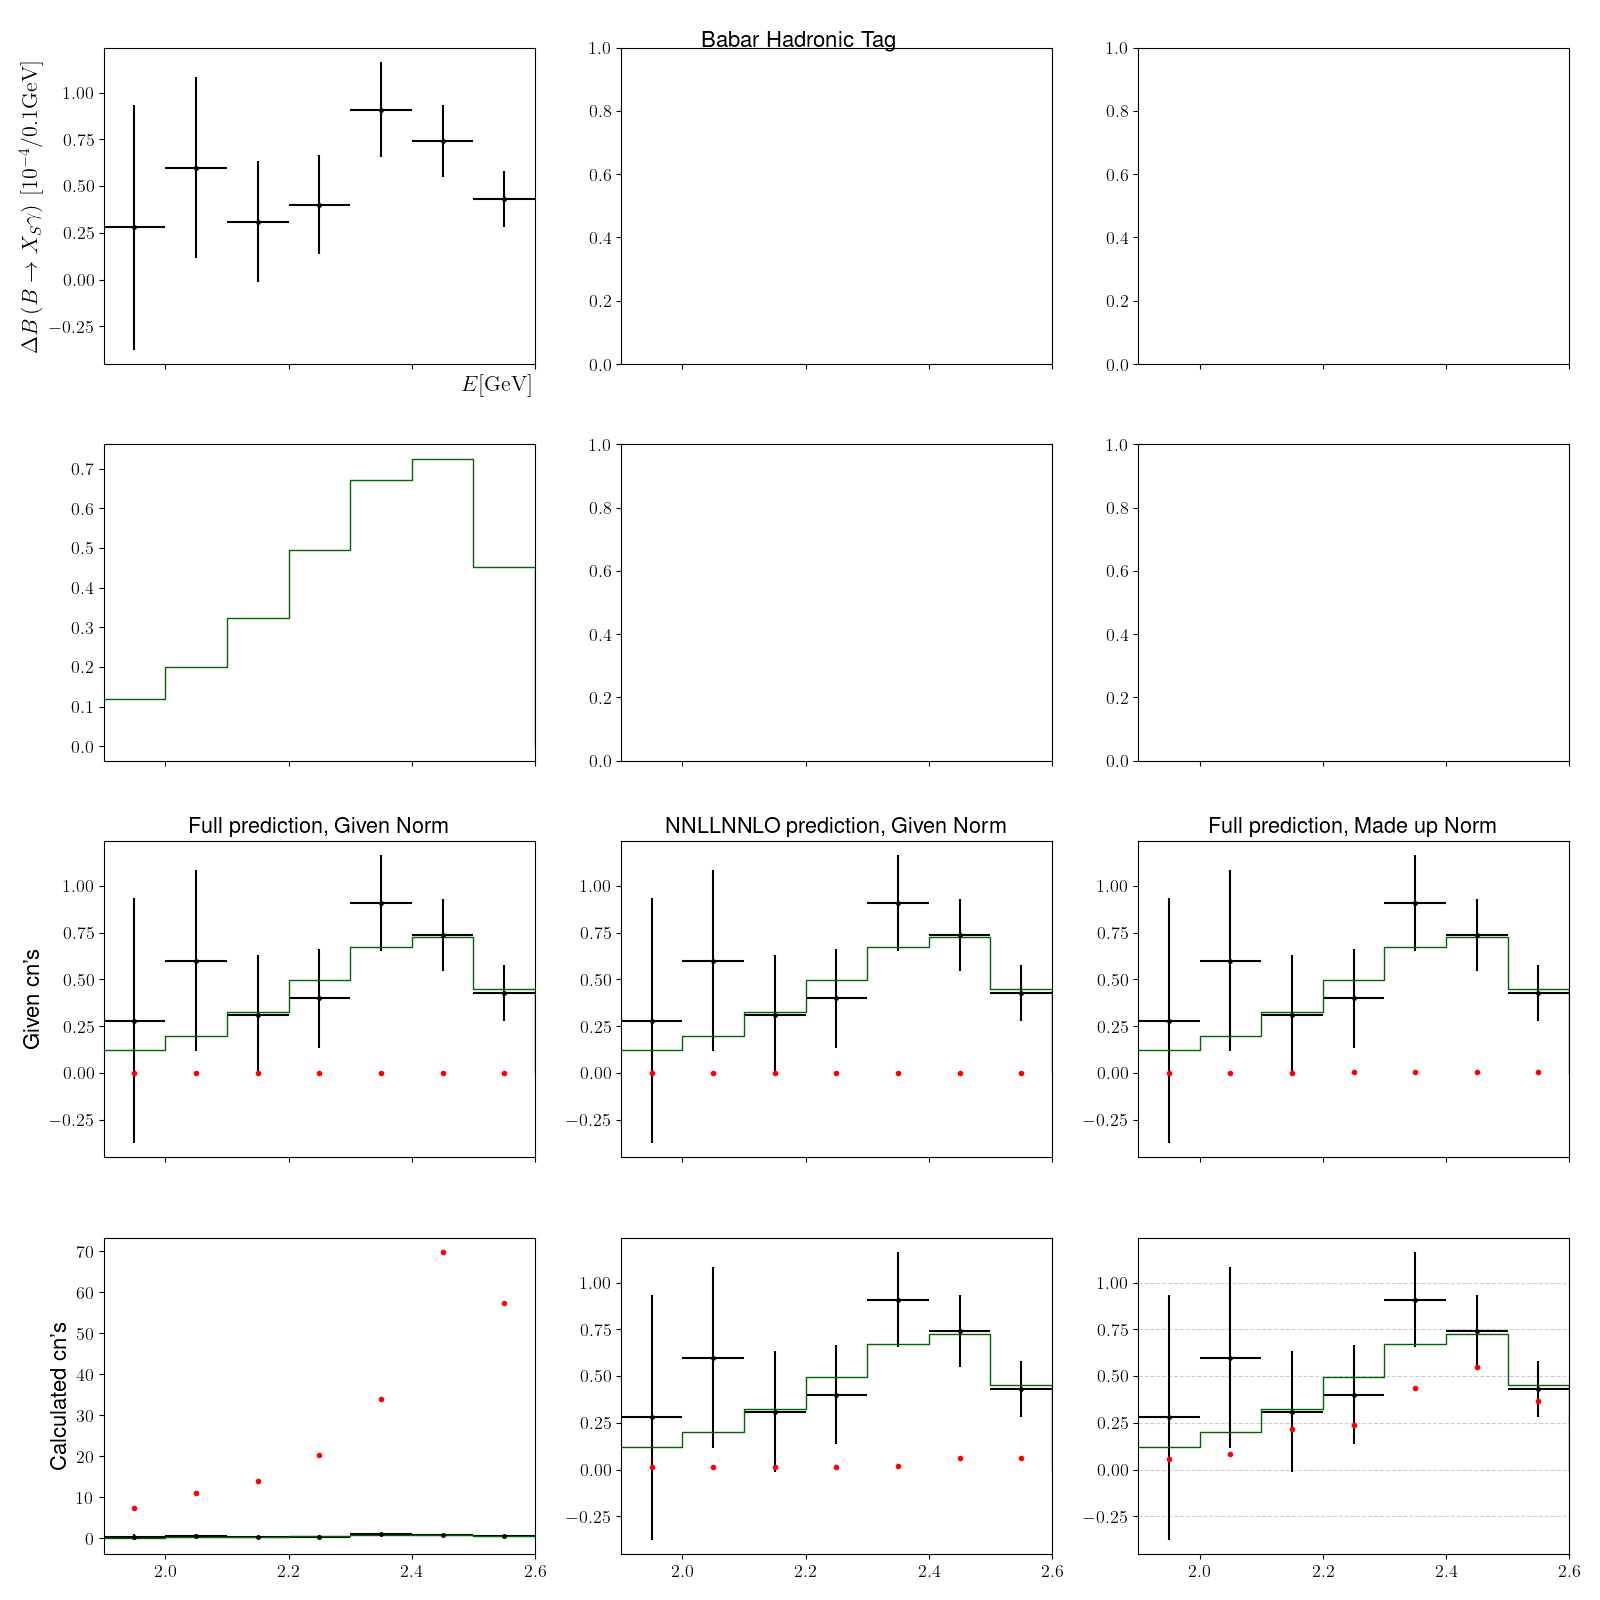
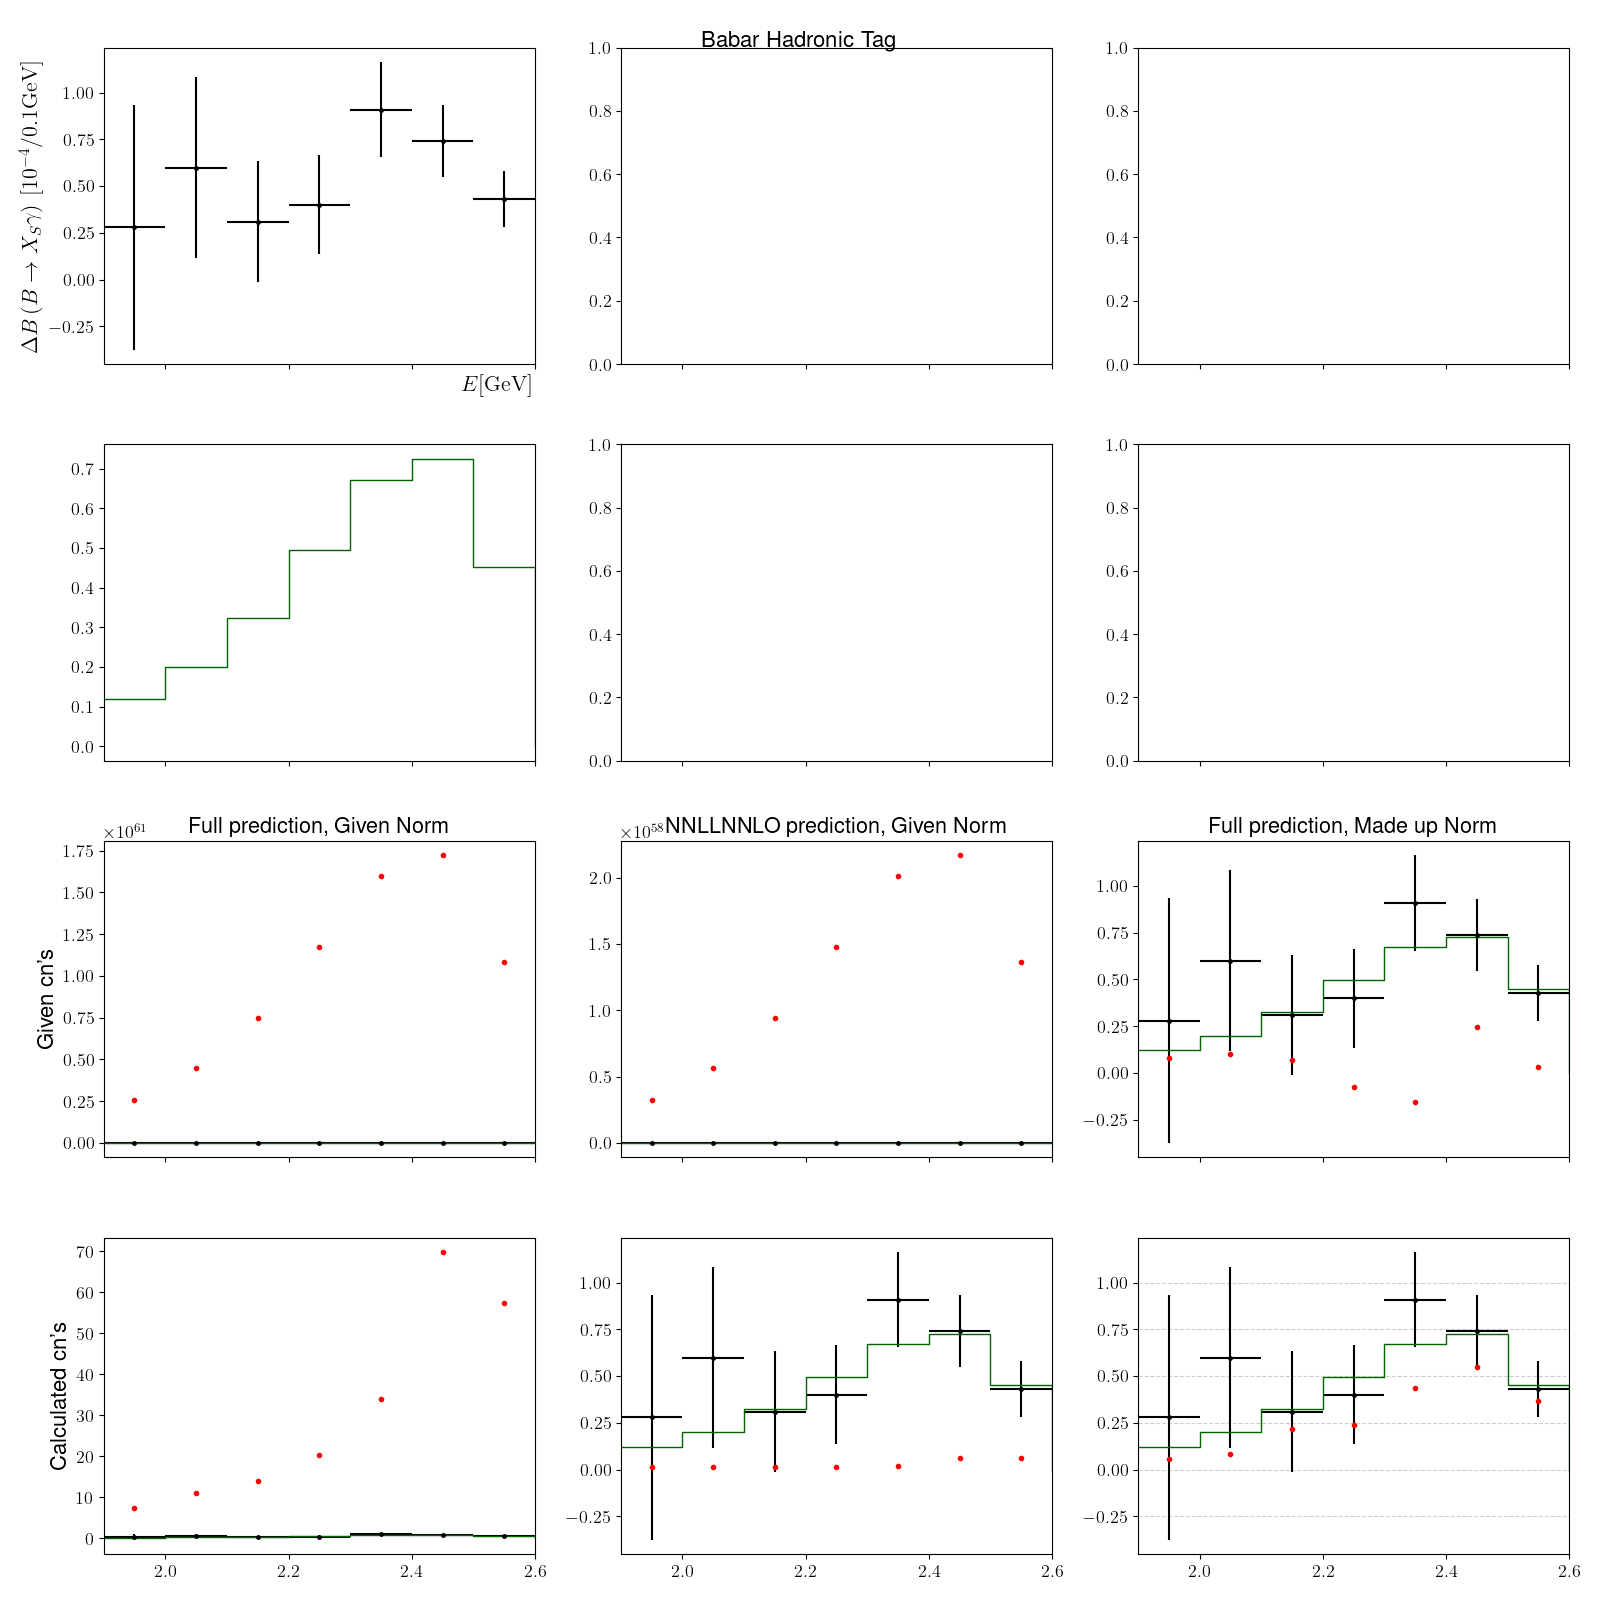
an s too large again

diff --git a/Grab.py b/Grab.py
@@ -1,4 +1,4 @@
-#from ROOT import *
+from ROOT import TFile
 import uproot
 import numpy as np
 import pickle
@@ -18,8 +18,7 @@ class Grab:
         self.mids = ['NNLLNNLO', 'NS22NNLO', 'NS27NNLO', 'NS28NNLO', 'NS78NNLO', 'NS88NNLO']
 
 
-    '''
-    #TODO: Compile again because of the label names
+
     def GrabMeasurement(Tag, Label):
 
         # Our Measurement Dictionary
@@ -34,7 +33,7 @@ class Grab:
         }
 
         # Open File and grab measurement histogram
-        f = TFile("/home/s08shoff/physik/shk_bernlochner/simba/Cpp/share/simba/measurements/" + Tag + ".root")
+        f = TFile("../simba/Cpp/share/simba/measurements/" + Tag + ".root")
         h = f.Get(Tag)
         # Determine the number of bins
         nbins = h.GetNbinsX()
@@ -70,7 +69,7 @@ class Grab:
 
         return measDict
 
-    '''
+
 
     #key: Which experiment. possibilities: ["babar_incl", "babar_hadtag", "babar_sem", "belle"]
     #mid: Which Order. possibilities: see self.mids
@@ -230,7 +229,7 @@ class Grab:
 
 
 g = Grab()
-'''
+
 Fmn_moments = Grab.GrabMoments()
 #print(Fmn_moments['expx4']['Values'][3]) #FIXME: zu wenig Nachkommastellen
 Tools.store_in_pickle(Fmn_moments, 'theory/Fmn_moments')
@@ -243,17 +242,17 @@ data_label_list = ["Babar\\Inclusive\\Spectra", "Babar\\Hadronic\\Tag", "Babar\\
 data_tag_list = ["babar_incl", "babar_hadtag", "babar_sem", "belle"]
 
 exp_data = {
-            "babar_incl": g.GrabMeasurement(data_tag_list[0],data_label_list[0]),
-            "babar_hadtag": g.GrabMeasurement(data_tag_list[1],data_label_list[1]),
-            "babar_sem": g.GrabMeasurement(data_tag_list[2],data_label_list[2]),
-            "belle": g.GrabMeasurement(data_tag_list[3],data_label_list[3])
+            "babar_incl": Grab.GrabMeasurement(data_tag_list[0],data_label_list[0]),
+            "babar_hadtag": Grab.GrabMeasurement(data_tag_list[1],data_label_list[1]),
+            "babar_sem": Grab.GrabMeasurement(data_tag_list[2],data_label_list[2]),
+            "belle": Grab.GrabMeasurement(data_tag_list[3],data_label_list[3])
             }
 
 Tools.store_in_pickle(exp_data, 'data/exp_data')
-'''
+
 
 # Theory Dictionary in pickle with all data of '%key%_NNLLNNLO_la%end%.txt' from mb47_mc13_nf3_as207_expx3
-'''
+
 theory_dictionary_expx3 = {
     "babar_hadtag": g.grab_mids('babar_hadtag'),
     "babar_incl": g.grab_mids('babar_incl'),
@@ -262,6 +261,9 @@ theory_dictionary_expx3 = {
     }
 
 Tools.store_in_pickle(theory_dictionary_expx3, 'theory/theory_dictionary_expx3')
+
+dicti = Tools.pickle_to_dict('theory/theory_dictionary_expx3')
+print(dicti['babar_hadtag']['NNLLNNLO']['la0575']['Bins'])
 
 #print(theory_dictionary_expx3['babar_hadtag']['NNLLNNLO']['la03']['Bins'])
 
@@ -274,8 +276,8 @@ theory_dictionary_SSF27 = {
     "belle": g.grab_theory('belle', 'SSF27')
     }
 
-print(theory_dictionary_SSF27['babar_hadtag']['la10575'])
-'''
+#print(theory_dictionary_SSF27['babar_hadtag']['la10575'])
+
 Tools.store_in_pickle(theory_dictionary_SSF27, 'theory/theory_dictionary_SSF27')
 
 # Histogram dictionary from root data 'nomfit_mom_3001_NNLLNNLO_la06_%key%.root'
@@ -295,6 +297,5 @@ fit_config = {
     "belle":        Grab.create_fit_config(6)
     }
 
-Tools.store_in_pickle(fit_config, 'fit/fit_config')
-
+Tools.store_in_pickle(fit_config, 'fit/fit_config')'
 '''

diff --git a/Plot.py b/Plot.py
@@ -91,9 +91,9 @@ class Plot:
         if given_pred == True:
             test_fit_results = np.array([0.9956, 0.0641, 0.0624, 0.0267])
             if made_up_norm == True:
-                test_norm = 0.05
+                test_norm = 0.6
             else:
-                test_norm = 4.925 * 10 ** (-3)
+                test_norm = 4.925 * 10 ** (3)
         else:
             test_fit_results = np.array([ 0.97077755, -0.14176911, -0.28886564, 0.88106524, -0.15055227, 0.25913442, -0.13474348])
             test_fit_results = Meas.ConvertPars(test_fit_results)

diff --git a/Meas.py b/Meas.py
@@ -254,3 +254,15 @@ class Meas:
         self.M3 = self.Moment(cn,3)
         self.la = settings.BasisExpansion # TODO: in C++ via a function, which returns a string with the used _expansion, I guess it is my 'end'
         return Chisq
+
+'''
+start_pars = np.array([1, 0.00506919, 0.0, 0.0798100, 0.0870341, 0.0250290, 0.0])
+
+mes = Meas()
+
+m = Minuit(mes.Chisq, start_pars)
+m.migrad()
+m.hesse()
+
+print(m.values)'S
+'''
